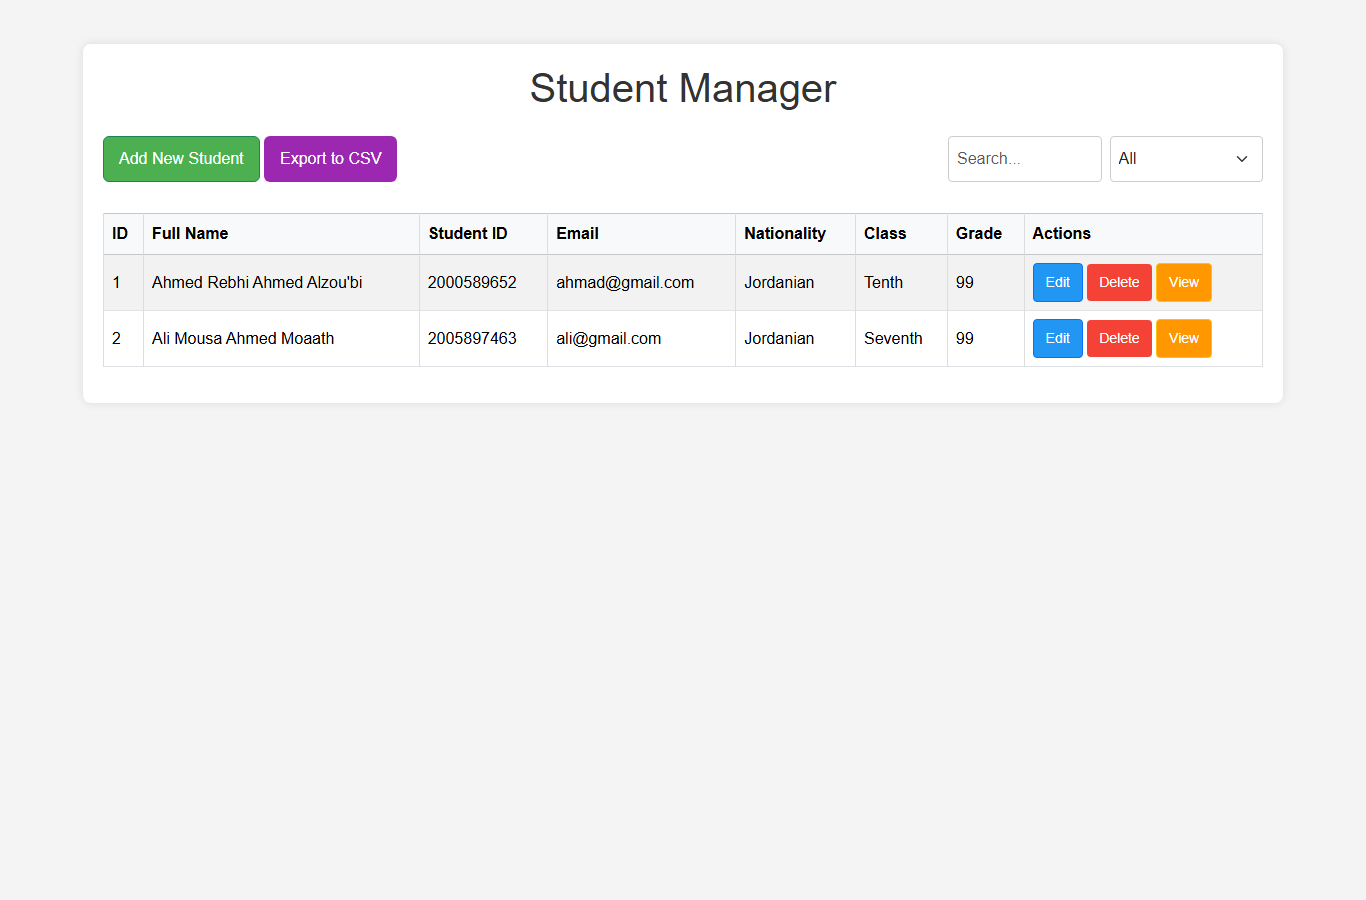
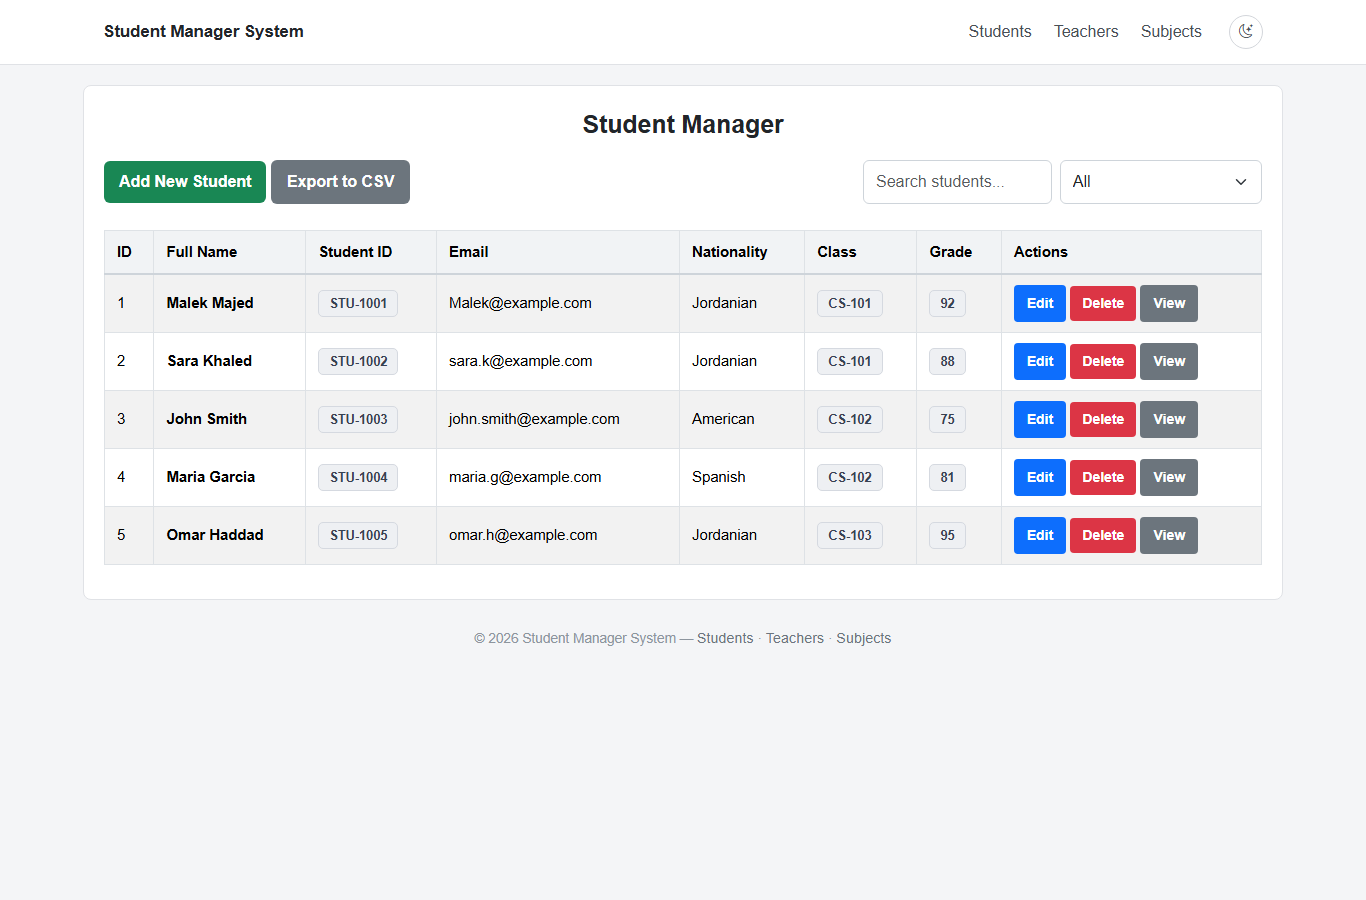
Fix README.md

diff --git a/public/assets/js/site.js b/public/assets/js/site.js
@@ -17,6 +17,12 @@
     }
 
     function currentTheme() {
+        // explicit ?theme=light|dark in the URL wins (deep-linking / testing)
+        try {
+            var q = new URLSearchParams(window.location.search).get('theme');
+            if (q === 'dark' || q === 'light') { return q; }
+        } catch (e) {}
+
         var saved = null;
         try { saved = localStorage.getItem(STORAGE_KEY); } catch (e) {}
         if (saved !== 'dark' && saved !== 'light') {

diff --git a/docs/screenshots/README.md b/docs/screenshots/README.md
@@ -2,6 +2,6 @@
 
 Real captures from the running app (1366×900, headless Chrome):
 
-- `01-home.png` → student table (`public/index.php`)
-- `02-add.png` → add form (`create.php`)
-- `03-edit.png` → edit form (`edit.php?id=1`)
+- `01-home.png` → students table (`public/index.php`)
+- `02-add.png` → add student form (`app/views/students/create.php`)
+- `03-teachers.png` → teachers table (`public/teachers.php`)

diff --git a/README.md b/README.md
@@ -12,9 +12,9 @@ A simple PHP + MySQL web app for managing students records with full CRUD, live 
 
 ![Add Student](docs/screenshots/02-add.png)
 
-### Edit Student
+### Teachers
 
-![Edit Student](docs/screenshots/03-edit.png)
+![Teachers](docs/screenshots/03-teachers.png)
 
 ## Features
 
